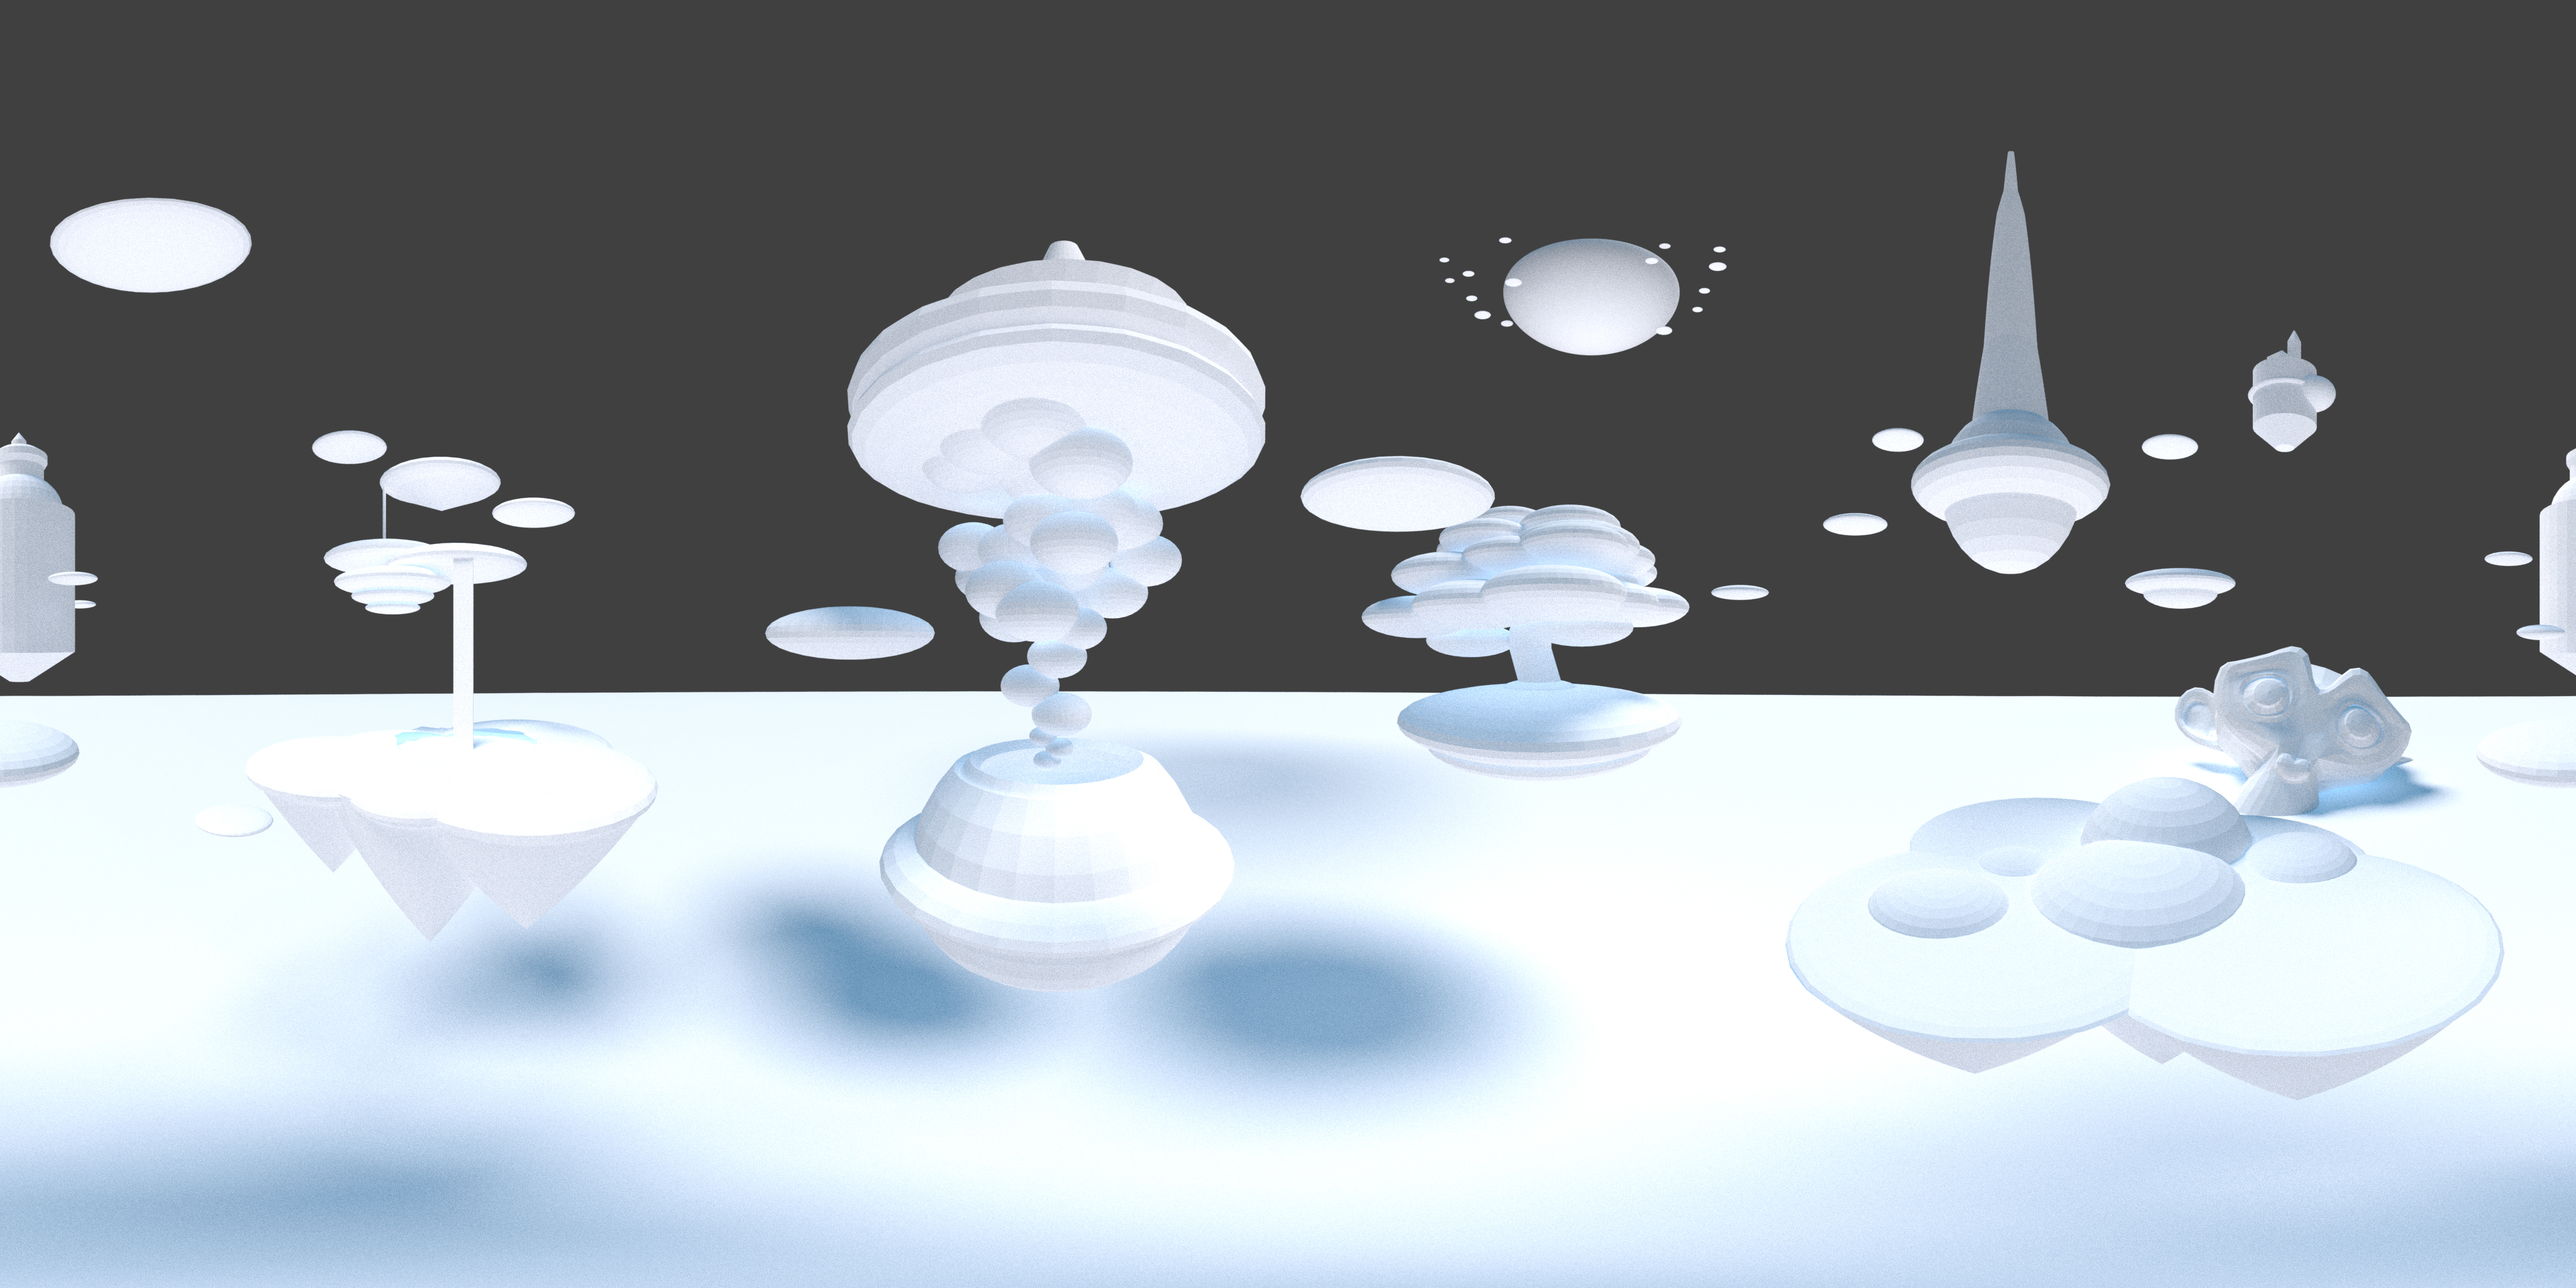
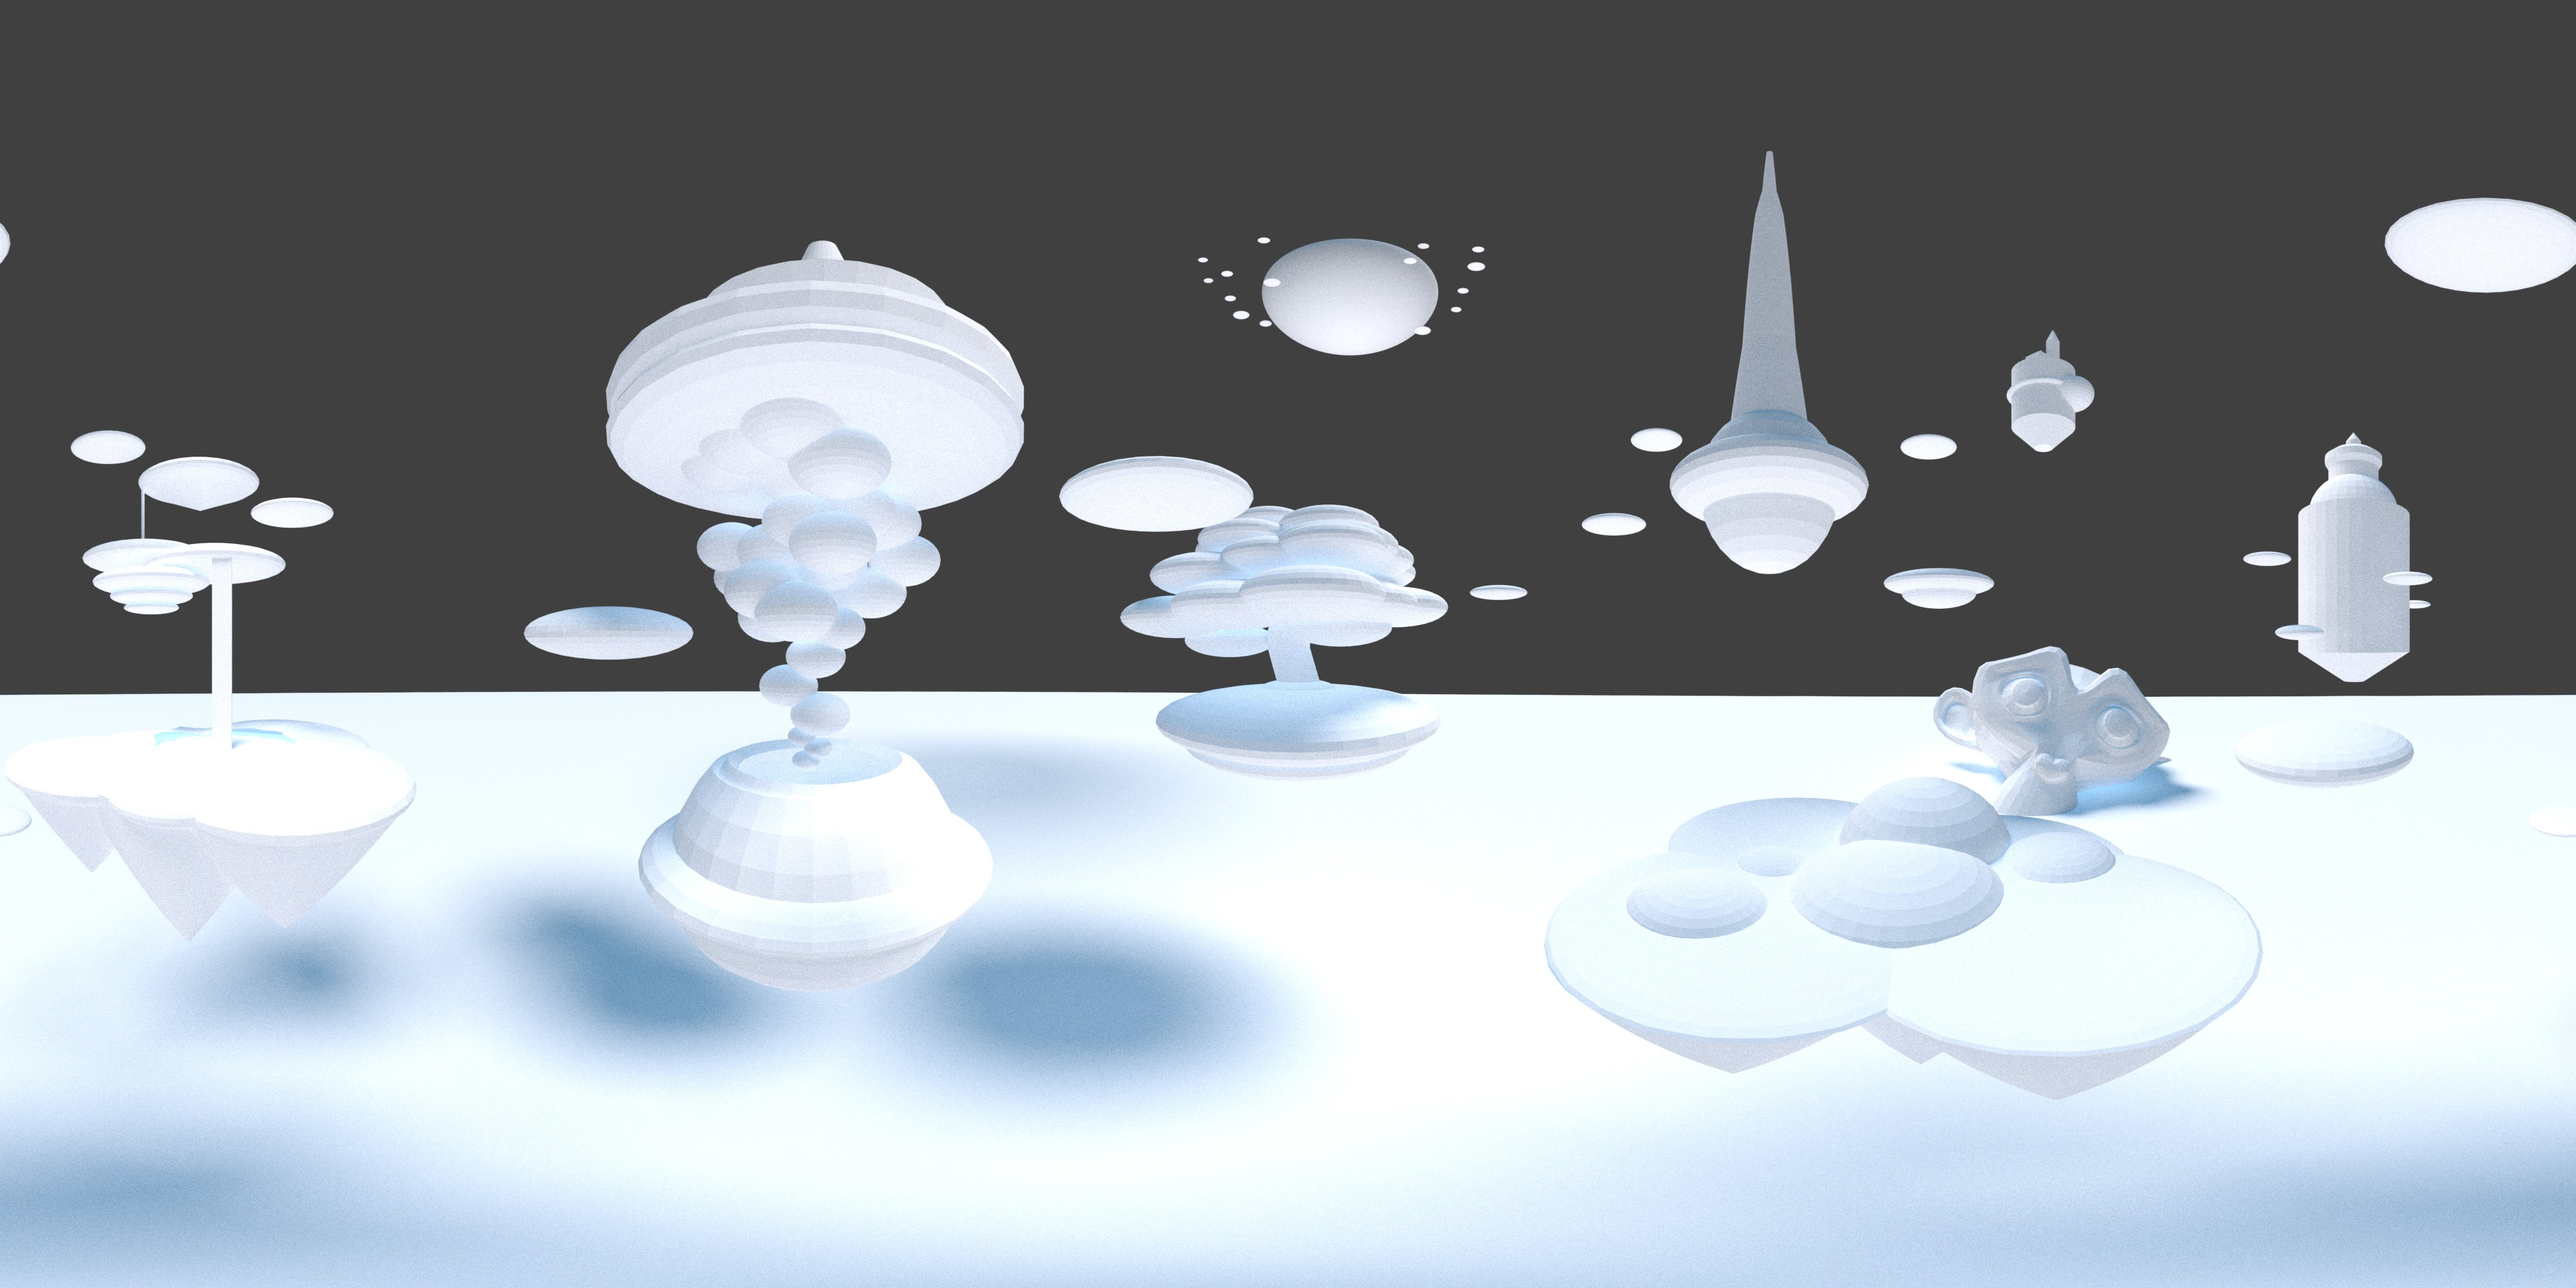
Testing 3D img for bg

diff --git a/test60secinteractives/index.html b/test60secinteractives/index.html
@@ -55,7 +55,7 @@
             scene = new THREE.Scene();
             var geometry = new THREE.SphereBufferGeometry( 500, 128, 64 );
             geometry.scale( - 1, 1, 1 );
-            var textLandscape = new THREE.TextureLoader().load( '3Drender.jpg' );
+            var textLandscape = new THREE.TextureLoader().load( 'Maquette3D_WIP.jpg' );
             textLandscape.magFilter = THREE.LinearFilter;
             textLandscape.minFilter = THREE.LinearFilter;
             var material = new THREE.MeshBasicMaterial( {
